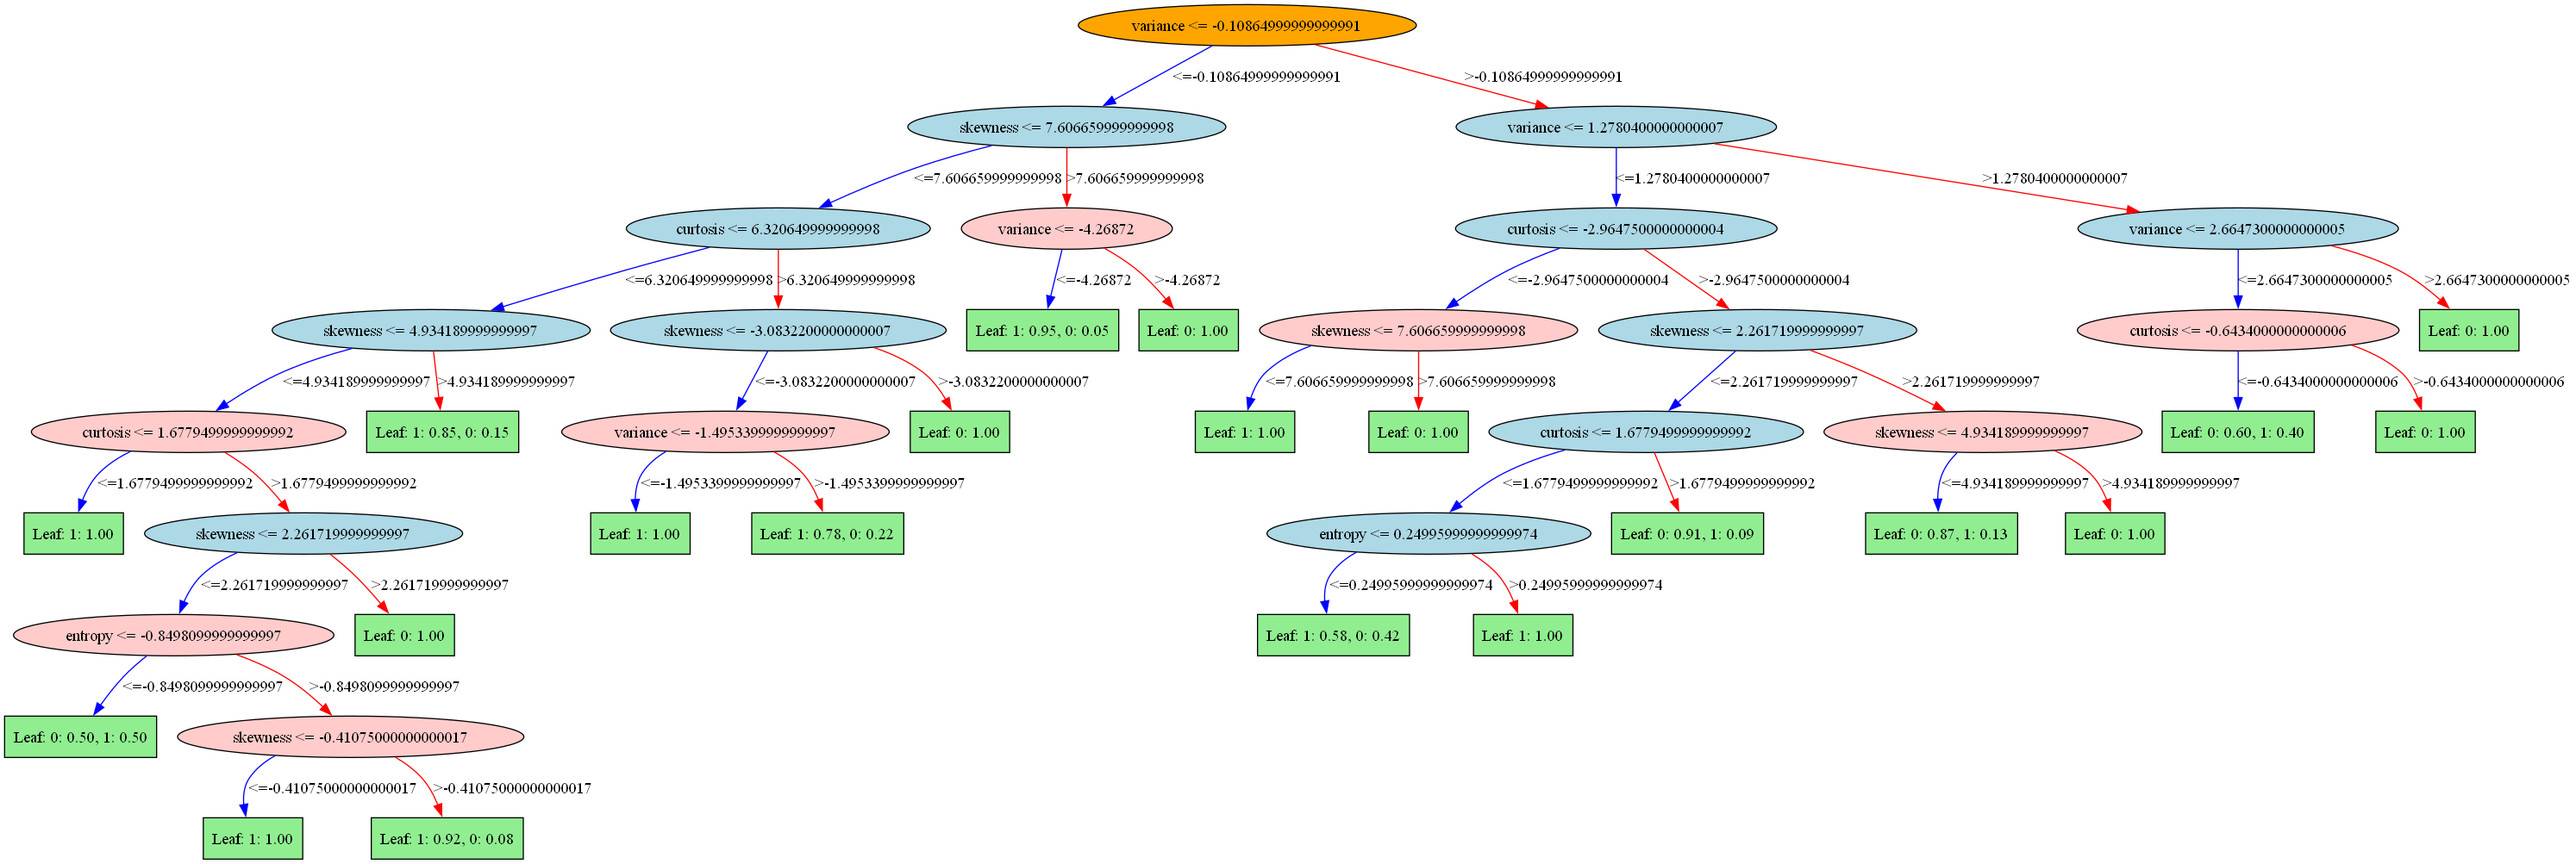
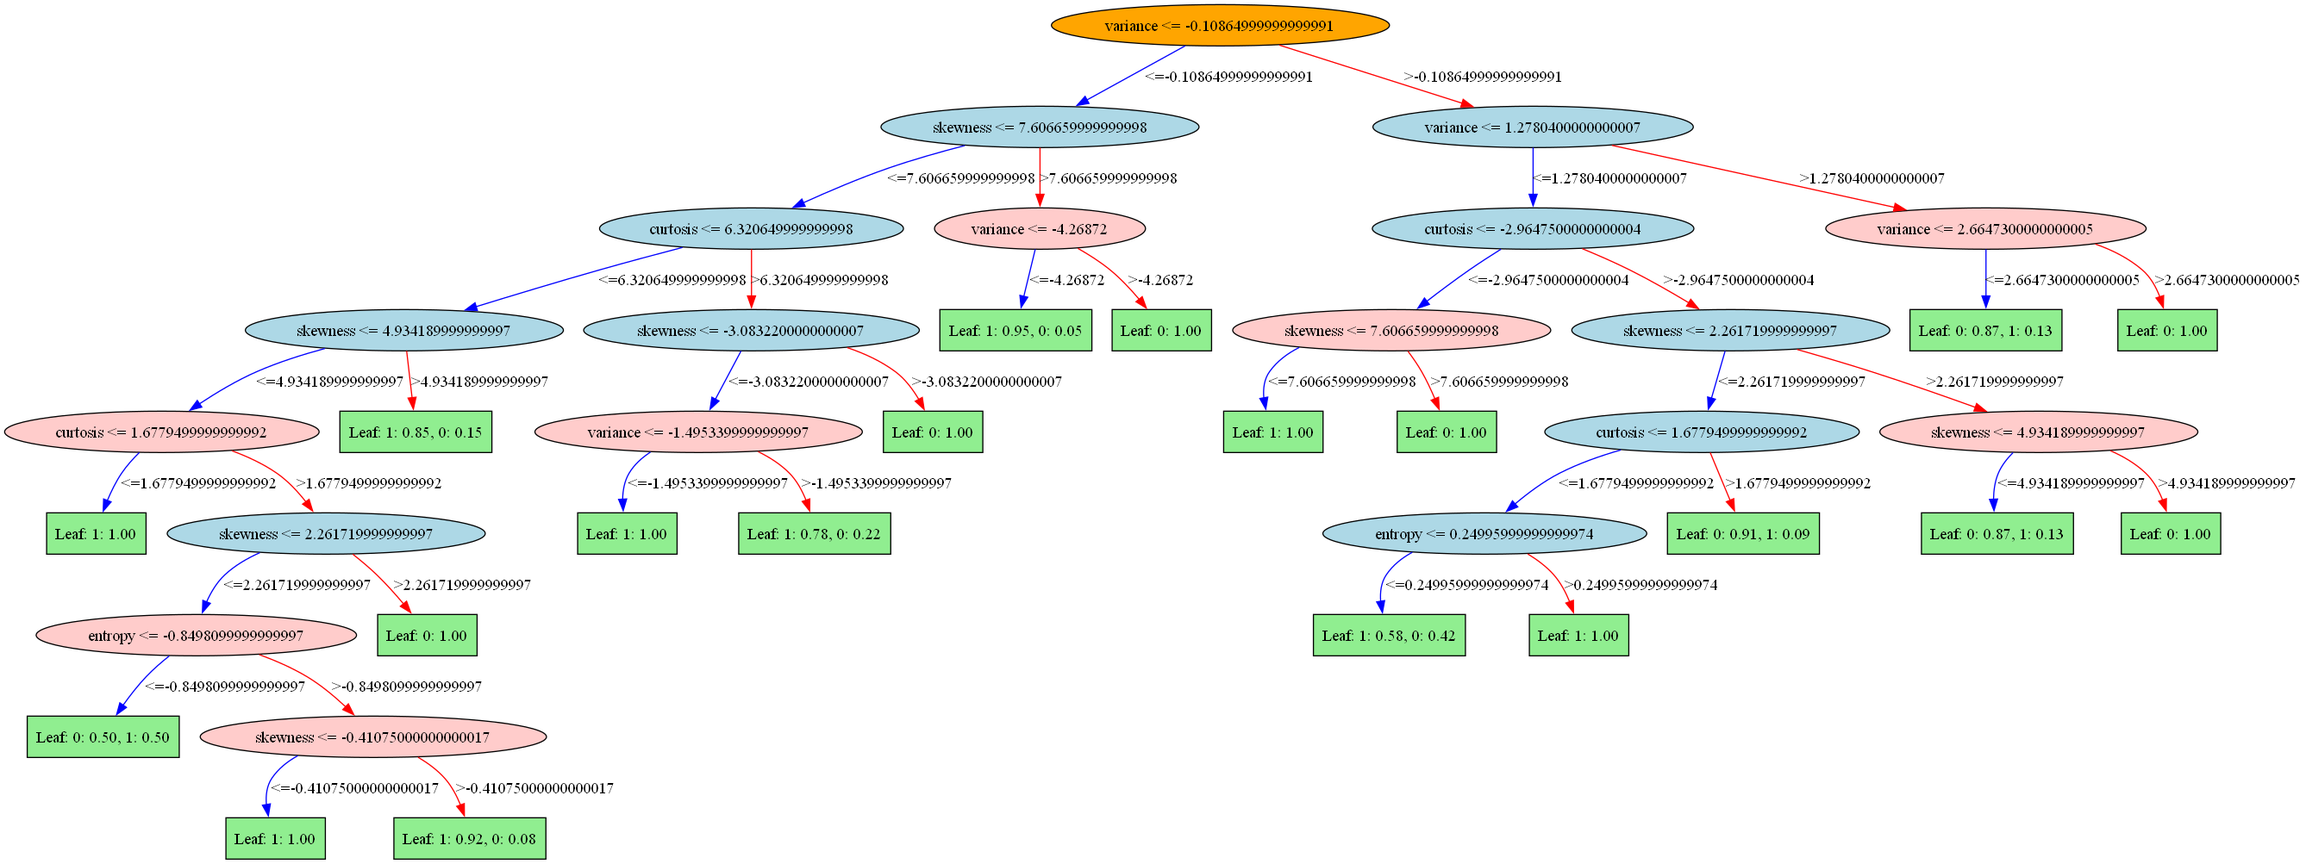
add fi

Changed region(s): [[0.0, 0.0, 1.0, 1.0], [0.4654, 0.5563, 0.9929, 0.7727]]

diff --git a/tree_clas.py b/tree_clas.py
@@ -19,6 +19,7 @@ class MyTreeClf:
         self.histograms = {}
         self.criterion = criterion
         self.reserved_leaves = 0
+        self.fi = {col: 0 for col in X.columns}
 
     def entropy(self, y):
         value_counts = y.value_counts(normalize=True)
@@ -27,7 +28,6 @@ class MyTreeClf:
     def gini(self, y):
         value_counts = y.value_counts(normalize=True)
         return 1 - np.sum(value_counts**2)
-    
     
     def impurity(self, y):
         criterion = {'entropy': self.entropy, 'gini': self.gini}
@@ -46,15 +46,10 @@ class MyTreeClf:
             if self.bins is not None:
                 if col_name not in self.histograms:
                     hist, bin_edges = np.histogram(X[col_name], bins=self.bins)
-                    self.histograms[col_name] = bin_edges[1:-1]  # Убираем крайние значения
+                    self.histograms[col_name] = bin_edges[1:-1]
                 split_values = self.histograms[col_name]
             else:
-                split_values = unique_values[:-1] + np.diff(unique_values) / 2  # Обычные разделители
-
-            # Проверяем, есть ли разделители
-            if len(split_values) == 0:
-                continue
-
+                split_values = unique_values[:-1] + np.diff(unique_values) / 2 
             for split_value in split_values:
                 left_mask = X[col_name] <= split_value
                 right_mask = X[col_name] > split_value
@@ -67,26 +62,36 @@ class MyTreeClf:
 
                 left_impurity = self.impurity(left_y)
                 right_impurity = self.impurity(right_y)
+                
 
-                ig = parent_impurity - (len(left_y) / len(y) * left_impurity + len(right_y) / len(y) * right_impurity)
+                left_impurity *= len(left_y) / len(y)
+                right_impurity *= len(right_y) / len(y)
+                ig = parent_impurity - left_impurity - right_impurity
+                
+                Fi = len(y) / self.N * ig
 
                 if ig > best_ig:
                     best_ig = ig
                     best_col_name = col_name
                     best_split_value = split_value
+                    best_fi = Fi
+
+        self.fi[best_col_name] += best_fi
 
         return best_col_name, best_split_value, best_ig
+
     
     def fit(self, X, y, depth=0, node=None):
         if node is None:
             self.tree = {}
             node = self.tree
             is_root = True
+            self.N = len(y)
         else:
             is_root = False
 
         if (depth >= self.max_depth or len(y) < self.min_samples_split or len(set(y)) == 1 or 
-            self.max_leafs + 1 - self.leafs_cnt - self.reserved_leaves <= 0) and not is_root:
+            self.max_leafs - self.leafs_cnt - self.reserved_leaves <= 0) and not is_root:
             node['leaf'] = y.value_counts(normalize=True).to_dict()
             self.leafs_cnt += 1
             return
@@ -113,6 +118,44 @@ class MyTreeClf:
         self.reserved_leaves -= 1
 
 
+
+    def _class(self, row):
+        node = self.tree
+        while True:
+            if 'leaf' in node:
+                return node['leaf'].get(1, 0) 
+            if not node or not node.keys():
+                return 0 
+            col_name = list(node.keys())[0]
+            if col_name not in node:
+                return 0 
+            split_value = list(node[col_name].keys())[0].split()[1]
+            if row[col_name] <= float(split_value):
+                node = node[col_name][f'<= {split_value}']
+            else:
+                node = node[col_name][f'> {split_value}']
+
+    def predict_proba(self, X):
+        return X.apply(self._class, axis=1)
+
+    def predict(self, X):
+        return self.predict_proba(X).apply(lambda x: 1 if x > 0.5 else 0)
+    
+    def sum_leaf_probabilities(self):
+        return self._sum_leaf_probabilities(self.tree)
+
+    def _sum_leaf_probabilities(self, node):
+        if 'leaf' in node:
+            return node['leaf'].get(1, 0)  # Вернуть вероятность класса 1 в листе
+        else:
+            total_probability = 0
+            for key, value in node.items():
+                total_probability += self._sum_leaf_probabilities(value)
+            return total_probability
+
+    def get_feature_importance(self):
+        return self.fi  # Возвращаем важность признаков
+    
     def visualize_tree(self, node=None, graph=None, parent=None, edge_label=''):
         if graph is None:
             graph = Digraph()
@@ -155,41 +198,6 @@ class MyTreeClf:
 
         return graph
 
-    def _class(self, row):
-        node = self.tree
-        while True:
-            if 'leaf' in node:
-                return node['leaf'].get(1, 0) 
-            if not node or not node.keys():
-                return 0 
-            col_name = list(node.keys())[0]
-            if col_name not in node:
-                return 0 
-            split_value = list(node[col_name].keys())[0].split()[1]
-            if row[col_name] <= float(split_value):
-                node = node[col_name][f'<= {split_value}']
-            else:
-                node = node[col_name][f'> {split_value}']
-
-    def predict_proba(self, X):
-        return X.apply(self._class, axis=1)
-
-    def predict(self, X):
-        return self.predict_proba(X).apply(lambda x: 1 if x > 0.5 else 0)
-    
-    def sum_leaf_probabilities(self):
-        return self._sum_leaf_probabilities(self.tree)
-
-    def _sum_leaf_probabilities(self, node):
-        if 'leaf' in node:
-            return node['leaf'].get(1, 0)  # Вернуть вероятность класса 1 в листе
-        else:
-            total_probability = 0
-            for key, value in node.items():
-                total_probability += self._sum_leaf_probabilities(value)
-            return total_probability
-    
-    
 # Создаем и тестируем классификатор
 clf = MyTreeClf(max_depth=10, min_samples_split=40, max_leafs=21, bins=10, criterion='gini')
 clf.fit(X, y)
@@ -210,3 +218,9 @@ print(f'Accuracy: {accuracy}')
 # Получаем сумму вероятностей класса 1 на всех листьях
 total_probability = clf.sum_leaf_probabilities()
 print(f'Total probability of class 1 on leaves: {total_probability}')
+
+# Выводим важность признаков
+feature_importance = clf.get_feature_importance()
+print('Feature Importances:')
+for feature, importance in feature_importance.items():
+    print(f'{feature}: {importance}')
